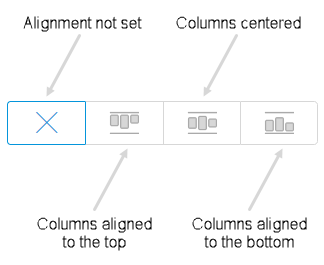
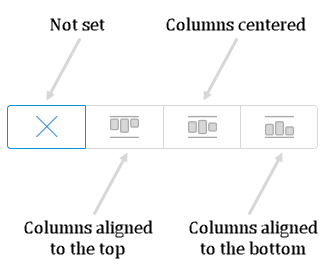
Finish draft for Studio and implement Arjan'e comments for Studio Pro.

diff --git a/content/studio/page-editor-widgets-structure.md b/content/studio/page-editor-widgets-structure.md
@@ -22,9 +22,9 @@ There are the following Structure widgets:
 
 **Column** and **Sidebar** widgets are widgets with a pre-set number of columns. All widgets in this category are based on a [layout grid](#layout-grid) – an element that structures your page with rows and columns. 
 
-## 3 Layout Grid Overview {#layout-grid}
+## 3 Layout Grid {#layout-grid}
 
-The **Layout Grid** helps you to configure a page and make it responsive immediately. This means that a layout grid has a built-in behavior to show how a page will look like on different devices. Switch **Device** modes to see how a page will be displayed on a phone, tablet or desktop:
+The **Layout Grid** helps you to configure a page and make it responsive immediately. This means that a layout grid has a built-in behavior to show how a page will look like on different devices. Switch **Device** modes to see how a page will be displayed on a phone, tablet, or desktop:
 
 {{% image_container width="350" %}}![Device Modes](attachments/page-editor-widgets-structure/device-modes.png)
 {{% /image_container %}}
@@ -40,7 +40,7 @@ A column is a cell inside a row. You can place one or several elements inside a 
 {{% image_container width="400" %}}![Column Example](attachments/page-editor-widgets-structure/column-example.png)
 {{% /image_container %}}
 
-Use a column to align items in a row.  For more information on rows and columns, see section the [Row and Column Properties](#columns-and-rows) sections. 
+For more information on rows and columns, see section the [Row Properties](#row) and [Column Properties](#column) sections. 
 
 ### 2.1 Layout Grid Properties {#layout-grid-properties}
 
@@ -48,23 +48,30 @@ You can access the **Layout Grid** properties through the breadcrumb (for more i
 Layout grid properties consist of the following sections:
 
 * [Expand](#expand-section) 
+
 * [General](#general-section)
+
 * [Design](page-editor-widgets-design-section)
+
+    {{% image_container width="300" %}}![Layout Grid Properties](attachments/page-editor-widgets-structure/layout-grid-properties.png)
+    {{% /image_container %}}
 
 #### 2.1.1 Expand Section {#expand-section}
 
 The **Expand** section > **Add Row** allows you to add a row above or below the selected one to create more space to place widgets in. 
 
-{{% image_container width="300" %}}![Expand Section](attachments/page-editor-widgets-structure/layout-grid-expand-row.png)
-{{% /image_container %}}
+To add a new row, do the following:
 
-To add a row, select a row in the layout grid and click one of the buttons in **Add Row**. A row identical to the selected one will be inserted.
+1. Select a row in the layout grid and 
+2. In **Properties** > **Add Row**, click one of the buttons to insert the row above or below. 
+
+A row identical to the one you selected in step 1 will be inserted.
 
 #### 2.1.2 General Section {#general-section}
 
-In the **General** section, you can set the width of the layout. You can choose one of the following:
+In the **General** section, you can set the width of the layout grid. You can choose one of the following:
 
-* **Full Width** – the layout grid takes the whole width of a container it is placed in. 
+* **Full Width** – the layout grid takes the whole width of a container it is placed in
 * **Fixed Width** –  the layout  grid will have a fixed size in the center of your page, adjusted automatically according to your device
 
 #### 2.1.3 Design Section
@@ -73,39 +80,48 @@ For information on the **Design** section and its properties, see [Design Sectio
 
 ### 2.2 Row Properties {#row}
 
-**Row** properties consist of the following sections:
+*Row* properties consist of the following sections:
 
 * [Container Settings](#container-settings) 
 * [General](#general-section-row)
 
-{{% image_container width="300" %}}![Row Properties](attachments/page-editor-widgets-structure/row-sections.png)
-{{% /image_container %}}
+	{{% image_container width="300" %}}![Row Properties](attachments/page-editor-widgets-structure/row-sections.png)
+	{{% /image_container %}}
 
-#### 2.2.1 Container Settings {#container-settings}
+#### 2.2.1 Container Settings Section {#container-settings}
 
-In the **Container Settings** section, you can set the width for the grid and choose between full width or fixed width. This property is the same as the property in the [General Section](#general-section) of the layout grid. For details, see the [General Section](#general-section).
+In the **Container Settings** section, you can set the width for the layout grid and choose between full width or fixed width. 
+
+{{% alert type="info" %}}
+
+This property is the same as the property in the [General Section](#general-section) of the layout grid. For details, see the [General Section](#general-section).
+
+{{% /alert %}}
 
 #### 2.2.2 General Section
 
-In the **General** section of a row you can set number of columns in it, align columns and add spacing between them.
+In the **General** section of a row you can select the number of columns in it, align columns and add spacing between them. This section contain the following settings:
 
-* **Columns** – sets the number of columns in the row
+* **Columns** – sets the number of columns in the row 
 
-* **Align Columns Vertically** – this property aligns all columns in a row vertically. You can select the following options:
+    * You can also set the number of columns in the working area: select one of the columns and click a plus icon on top of it to add a new column to the right
 
-  ![](attachments/page-editor-widgets-structure/align-columns.png)
+        ![Adding New Column](attachments/page-editor-widgets-structure/adding-new-column.png)
+
+* **Align Columns Vertically** – aligns all columns in the row vertically, you can select the following options:
+
+    {{% image_container width="280" %}}![](attachments/page-editor-widgets-structure/align-columns.png)
+    {{% /image_container %}}
 
 * **Spacing Between Columns** – when enabled, adds spacing between columns
 
-### 2.3 Column Properties
+### 2.3 Column Properties {#column}
 
-#### 2.3.1 General Section
+*Column* properties consist of the **General** section, where you can set the column [width](#column-width) and [align](#align-column) an individual column. 
 
-In the **General** section of the column properties, you can set the column width and align an individual column. 
+#### 2.3.1 Width {#column-width}
 
-##### 2.3.1.1 Width
-
-**Width** – you can set the column width for desktop, tablet, or phone layout by choosing the corresponding device mode:
+You can set the column width for desktop, tablet, or phone by choosing the corresponding device mode:
 
 ![](attachments/page-editor-widgets-structure/width-per-device.png)
 
@@ -117,17 +133,35 @@ You can choose the following options:
 
 * **Manual** – allows you to manually set the size of the columns 
 
-  * When you select **Manual** the slider appears that allows you to set the width of the column from 1 to 12:
+    * When you select **Manual** the slider appears that allows you to set the width of the column from 1 to 12:
+    
+	    ![](attachments/page-editor-widgets-structure/column-size.png)
 
-    ![](attachments/page-editor-widgets-structure/column-size.png)
+{{% alert type="info" %}}
+
+You can also resize columns manually in the working area: drag the column border to change its size. 
+
+{{% /alert %}}
 
 The **Width** property can be used to make your layout more flexible and adaptive to different types of devices.
 
 For example, you have a layout grid with one row and two columns: a picture is in one column, and a text with details is in another.
 
-##### 2.3.1.2 Align Vertically
+For the *desktop*, you might want to set the first column with a picture to **Auto-fit content** and and the second one to **Auto-fill**, this way the first column will adjust to the size of the picture, while the second one will take the rest of the row:
 
-The **Align Vertically** property overrides the [Align Columns Vertically](#align-columns) property on the row and sets alignment for an individual column.  
+![Layout Example, Desktop](attachments/page-editor-widgets-structure/layout-example-desktop.png)
+
+For *tablet*, you can set both columns to **Auto-fill** and you will get two equal columns:
+
+![Layout Example, Tablet](attachments/page-editor-widgets-structure/layout-example-tablet.png)
+
+For *phone*, it can be a good idea to place two columns one under another, setting them to **Manual** width of *12*. In this case, the second column will be automatically wrapped to another line:
+
+ ![Layout Example, Phone](attachments/page-editor-widgets-structure/layout-example-phone.png)
+
+#### 2.3.2 Align Vertically {#align-column}
+
+The **Align Vertically** property overrides the [Align Columns Vertically](#align-columns) property on the row and sets alignment for an individual column. 
 
 ## 4 Container Overview {#container-overview}
 
@@ -170,12 +204,12 @@ You can place a widget or a group of widgets inside each tab and configure infor
 
 In the **General** section, you can configure the following properties:
 
-*  **Tabs** – use radio buttons to switch from one tab to another; click the tab and drag it to change the order of tabs; click the **Edit** icon to open the tab properties and configure it (for more information, see section [5.3 Tab Properties](#tab-properties))
+*  **Tabs** – use radio buttons to switch from one tab to another; click the tab and drag it to change the order of tabs; click the **Edit** icon to open the tab properties and configure it (for more information, see section the [Tab Properties](#tab-properties) section)
 
 	{{% image_container width="300" %}}![](attachments/page-editor-widgets-structure/tab-container-tabs-property.png)
 	{{% /image_container %}}
 
-*  **Add New Tab** – adds a new tab to your tab container; tab properties will open automatically (for more information, see section [5.3 Tab Properties](#tab-properties))
+*  **Add New Tab** – adds a new tab to your tab container; tab properties will open automatically (for more information, see section the [Tab Properties](#tab-properties) section)
 
 	{{% image_container width="300" %}}![](attachments/page-editor-widgets-structure/add-new-tab.png)
 	{{% /image_container %}}

diff --git a/content/refguide/layout-grid.md b/content/refguide/layout-grid.md
@@ -2,15 +2,25 @@
 title: "Layout Grid"
 parent: "container-widgets"
 menu_order: 10
-tags: ["studio pro", "layout grid", "container widget", "grid", "layout"]
+tags: ["studio pro", "layout grid", "container widget", "column", "row", "grid", "layout"]
 #If moving or renaming this doc file, implement a temporary redirect and let the respective team know they should update the URL in the product. See Mapping to Products for more details.
 ---
 
 ## 1 Introduction
 
-The layout grid is a widget that gives structure to your pages.  A layout grid contains rows and columns: ![Layout Grid Example](attachments/container-widgets/layout-grid.png)
+The layout grid is a widget that gives structure to your pages.  
+
+A layout grid consists of [rows](#rows) and [columns](#columns): ![Layout Grid Example](attachments/container-widgets/layout-grid.png)
 
 In a browser, the layout grid is based on the Bootstrap grid system. For more information on the Bootstrap grid system, see the [official Bootstrap documentation](http://getbootstrap.com/css/#grid).
+
+{{% alert type="info" %}}
+
+Row and column properties described below are available if your project has [Mendix version 8.5](/release) or above  and [Atlas UI Resources](https://appstore.home.mendix.com/link/app/104730/) version 2.4.0 or above. 
+
+For more information on row and column properties, see the [Rows and Their Properties](#rows) and [Columns and Their Properties](#columns) sections. 
+
+{{% /alert %}}
 
 ## 2 Layout Grid Properties
 
@@ -55,7 +65,159 @@ As the layout grid responds to the viewport width, and not to the width of its c
 
 {{% snippet file="refguide/visibility-section-link.md" %}}
 
-## 3 Read More
+{{% alert type="info" %}}
+
+Row and column properties described below are available if your project has [Mendix version 8.5](/release) or above  and Atlas UI Resources version 2.4.0 or above. 
+
+{{% /alert %}}
+
+## 3 Rows and Their Properties {#rows}
+
+A layout grid can contain one or more rows. Each row contains [columns](#columns) and the number of columns can differ per row.
+
+An example of layout grid row properties is represented in the image below:
+
+{{% image_container width="300" %}}![Row Properties](attachments/container-widgets/row-properties.png)
+
+Row properties consist of the following sections:
+
+* [Common](#row-common)
+* [General](#row-general)
+* [Visibility](#row-visibility)
+
+### 3.1 Common Section {#row-common}
+
+{{% snippet file="refguide/common-section-link.md" %}}
+
+### 3.2 General Section {#row-general}
+
+The **General** section of a row contains the following properties:
+
+* **Columns** – sets the number of columns in the row
+
+* **Align columns vertically** – this property aligns all columns in a row vertically. You can select the following options:
+
+  * **Not set** – alignment is not set
+
+  * **Top** – columns are aligned to the top of the layout grid
+
+  * **Center** – columns are aligned to the center of the layout grid
+
+  * **Bottom** – columns are aligned to the bottom of the layout grid
+
+    {{% alert type="info" %}}This setting can be overridden by the **Align vertically** setting of an individual column.
+    {{% /alert %}}
+
+* **Spacing between columns** – when set to *Yes*, adds spacing between columns
+
+### 3.3 Visibility Section {#row-visibility}
+
+{{% snippet file="refguide/visibility-section-link.md" %}}
+
+## 4 Columns and Their Properties {#columns}
+
+Columns form a row of a layout grid.  
+
+ An example of layout grid column properties is represented in the image below:
+
+![Column Properties](attachments/container-widgets/column-properties.png)
+
+Layout grid column properties consist of the following sections:
+
+* [Common](#column-common)
+* [General](#column-general)
+
+### 4.1 Common Section
+
+{{% snippet file="refguide/common-section-link.md" %}}
+
+### 4.2 General Section
+
+#### 4.2.1 **Width** {#column-width}
+
+You can set the column width for desktop, tablet, or phone by using the corresponding property: **Desktop Width**, **Tablet Width**, **Phone Width**. 
+
+{{% alert type="info" %}}
+
+You can set width per device for web pages, not for native mobile or hybrid pages. For more information on different types of navigation profiles that pages are based on, see [Navigation](navigation).
+
+{{% /alert %}}
+
+You can choose the following options:
+
+* **Auto-fill** – takes the available space for a column (for example, if there is one column, it will span the column for the whole row, and for two columns, it will divide the space equally between them)
+* **Auto-fit content** – automatically fits the size of the column to its content
+* **Manual** – allows you to manually set the size of the columns by setting the [size](#column-size) option 
+
+The [Width](#column-width) property can be used to make your layout more flexible and adaptive to different types of devices.
+
+For example, you have a layout grid with one row and two columns: a picture is in one column, and a text with details is in another.
+
+For the *desktop*, you might want to set the first column with a picture to **Auto-fit content** and and the second one to **Auto-fill**, this way the first column will adjust to the size of the picture, while the second one will take the rest of the row:
+
+![Layout Example, Desktop](attachments/container-widgets/layout-example-desktop.png)
+
+For *tablet*, you can set both columns to **Auto-fill** and you will get two equal columns:
+
+![Layout Example, Tablet](attachments/container-widgets/layout-example-tablet.png)
+
+For *phone*, it can be a good idea to place two columns one under another, setting them to **Manual** width of *12* (for more information on the column size property, see the [Size](#column-size) section). In this case, the second column will be automatically wrapped to another line:
+
+ ![Layout Example, Phone](attachments/container-widgets/layout-example-phone.png)
+
+On the picture below you can see the settings for two column described above:
+
+![](attachments/container-widgets/column-settings-example.png)
+
+#### 4.2.2 **Size** {#column-size}
+
+The **Size** option is displayed only if the [width](#column-width) is set to **Manual**. 
+
+This setting allows you to manually set the column size for desktop, tablet, or phone by using the corresponding property: **Desktop Size**, **Tablet Size**, **Phone Size**. 
+
+#### 4.2.3 Align Vertically
+
+The **Align vertically** property overrides the **Align columns vertically** property on the row and sets alignment for an individual column.  
+
+## 5 Performing Basic Actions
+
+### 5.1 Adding a New Row or a Column
+
+To add a new row, do the following:
+
+1. Select an existing row in a layout grid.
+
+2. Right-click and select **Insert row above** or **Insert row below**:
+
+   ![Adding a New Row](attachments/container-widgets/adding-row.png)
+
+3. Select a column layout (how many columns should be in a row and what weight columns should have).
+
+A new row is added to the layout grid.
+
+To add a new column, do the following:
+
+1. Select a column next to which you want to add a new one.
+2. Right-click and select **Add column left** or **Add column right**.
+
+A new column is added, the weight 1 is automatically set for it. 
+
+### 5.2 Performing Other Actions on Rows
+
+In adding to inserting a new row, you can perform the following actions when right-clicking a row:
+
+* **Move up** – moves a row up in the layout grid, you can use a shortcut for it  <kbd>Ctrl</kbd> + <kbd>↑</kbd> 
+* **Move down** – moves a row down in the layout grid, you can use a shortcut for it  <kbd>Ctrl</kbd> + <kbd>↓</kbd> 
+
+### 5.3 Performing Other Actions on Columns
+
+In adding to inserting a new column, you can perform the following actions when right-clicking a column:
+
+* **Move left** – moves a column left in the row, you can use a shortcut for it  <kbd>Ctrl</kbd> + <kbd>←</kbd> 
+* **Move right** – moves a column right in the row, you can use a shortcut for it  <kbd>Ctrl</kbd> + <kbd>→</kbd> 
+* **Row** – allows you to perform actions on the column's row 
+
+## 6 Read More
 
 * [Page](page)
 * [Container Widgets](container-widgets)

diff --git a/content/refguide/layout-grid-rows-and-columns.md b/content/refguide/layout-grid-rows-and-columns.md
@@ -82,7 +82,7 @@ You can set the column width for desktop, tablet, or phone by using the correspo
 
 {{% alert type="info" %}}
 
-Setting width per device is unavailable for Native pages. 
+You can set width per device for Responsive navigation profiles only. Setting width per device is unavailable for Native pages. 
 
 {{% /alert %}}
 
